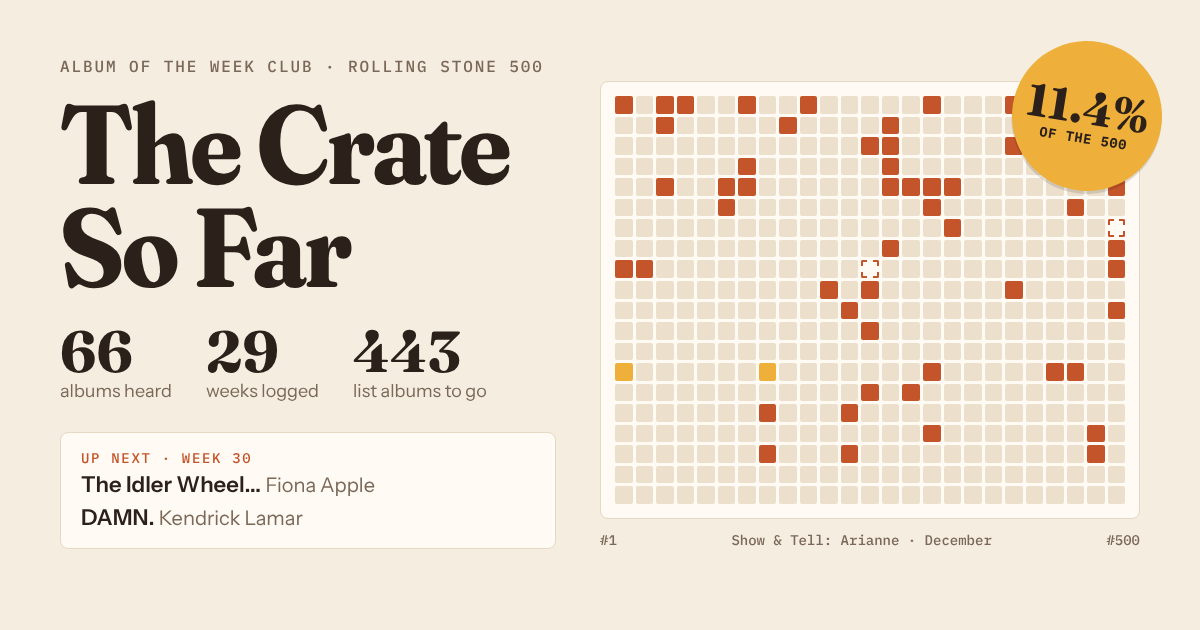
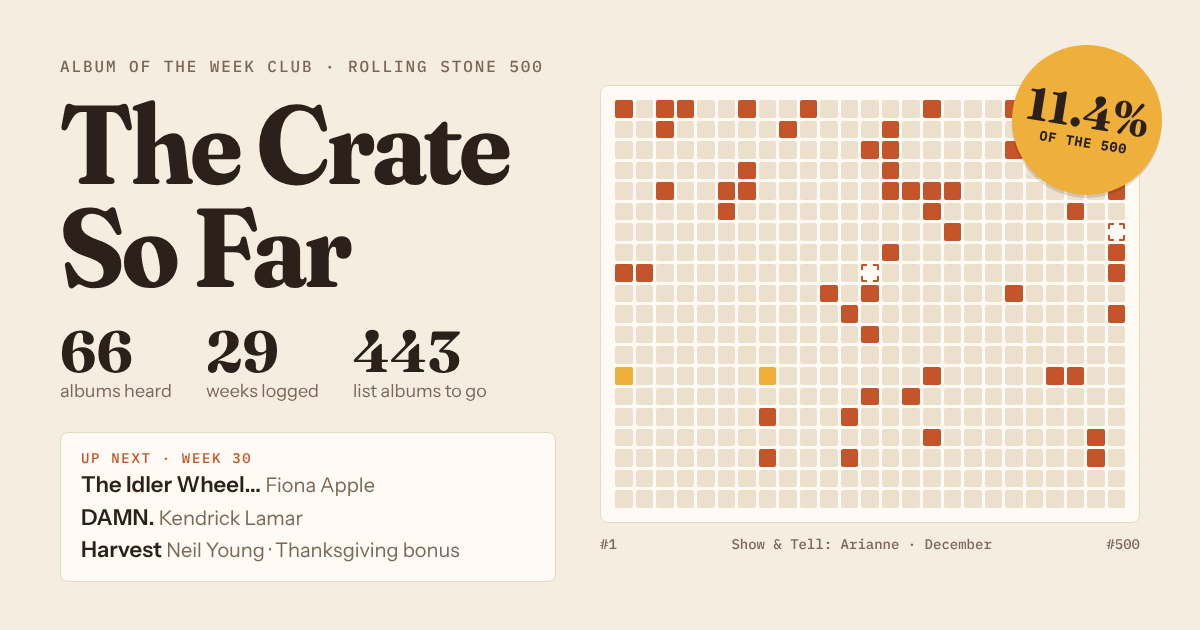
Thanksgiving bonus (Harvest) and organizer takes every January in the Show & Tell rotation
Claude-Session: https://claude.ai/code/session_017qSDTLtvHjN1ntxQNnDaXv

diff --git a/index.html b/index.html
@@ -4,11 +4,11 @@
 <meta charset="utf-8">
 <meta name="viewport" content="width=device-width,initial-scale=1,viewport-fit=cover">
 <title>Album Club Crate</title>
-<meta name="description" content="66 albums heard · 11.4% of the Rolling Stone 500 · Up next: The Idler Wheel... and DAMN.">
+<meta name="description" content="66 albums heard · 11.4% of the Rolling Stone 500 · Up next: The Idler Wheel... and DAMN., plus Harvest for Thanksgiving">
 <meta property="og:type" content="website">
 <meta property="og:site_name" content="Album Club Crate">
 <meta property="og:title" content="The Crate So Far · Album of the Week Club">
-<meta property="og:description" content="66 albums heard · 11.4% of the Rolling Stone 500 · Up next: The Idler Wheel... and DAMN.">
+<meta property="og:description" content="66 albums heard · 11.4% of the Rolling Stone 500 · Up next: The Idler Wheel... and DAMN., plus Harvest for Thanksgiving">
 <meta property="og:url" content="https://theburg51.github.io/album-club-crate/">
 <meta property="og:image" content="https://theburg51.github.io/album-club-crate/preview.png?v=30">
 <meta property="og:image:width" content="1200">
@@ -120,6 +120,10 @@ h1{line-height:.95}h2{line-height:1.05}.twc a.ttl{letter-spacing:-.01em;font-var
 .since{margin-top:14px}.since #sinceList{max-height:440px;overflow:auto;padding-right:4px}
 #sinceList input:checked~.ta{color:inherit;text-decoration:none}
 #sinceList input:not(:checked)~.ta{color:var(--mu)}
+
+.twb:empty{display:none}.twb{margin-top:16px}.twbh{margin:0 0 10px;font-size:14px;color:var(--mu);display:flex;flex-wrap:wrap;align-items:center;gap:6px 10px}.twbh b .st{font-size:13px;padding:3px 10px;margin:0}
+.st.hl{background:color-mix(in srgb,var(--co) 22%,var(--sh));color:var(--in)}
+.twc .st.hl{margin-left:8px}.la .st.hl{display:table;margin:4px 0 0}
 </style>
 </head>
 <body>
@@ -133,7 +137,7 @@ h1{line-height:.95}h2{line-height:1.05}.twc a.ttl{letter-spacing:-.01em;font-var
 <nav class="jump" id="jump" aria-label="Jump to"><a href="#s-week">This week</a><a href="#s-crate">My crate</a><a href="#s-stats">Stats</a><a href="#s-spin">Turntable</a><a href="#s-log">Log</a></nav>
 <div class="mscel" id="mscel" hidden></div>
 <section class="wrapd" id="wrapped" aria-labelledby="wrH" hidden></section>
-<section class="section" id="s-week" aria-labelledby="twH"><div class="head"><h2 id="twH">This week's albums</h2><span class="eyebrow" id="twWhen"></span></div><div class="tw" id="tw"></div></section>
+<section class="section" id="s-week" aria-labelledby="twH"><div class="head"><h2 id="twH">This week's albums</h2><span class="eyebrow" id="twWhen"></span></div><div class="tw" id="tw"></div><div class="twb" id="twb"></div></section>
 <section class="section" id="ahead" aria-labelledby="ahH" hidden>
 <div class="head"><h2 id="ahH">Coming up</h2><span class="eyebrow">Just for you · no spoilers</span></div>
 <form class="xrow" id="ahF"><input type="password" id="ahP" placeholder="Passphrase" aria-label="Passphrase" autocomplete="current-password"><button type="submit" class="xb">Unlock</button></form>
@@ -141,7 +145,7 @@ h1{line-height:.95}h2{line-height:1.05}.twc a.ttl{letter-spacing:-.01em;font-var
 <button type="button" class="xb" id="ahLock" hidden>Lock it on this device</button>
 </section>
 <section class="snt" aria-labelledby="sntH">
-<div class="sntTop"><div><div class="eyebrow" id="sntWhen"></div><h2 id="sntH"></h2></div><p>Show &amp; Tell: the first week of each month, one album that isn't on the list. Turns go by seniority.</p></div>
+<div class="sntTop"><div><div class="eyebrow" id="sntWhen"></div><h2 id="sntH"></h2></div><p>Show &amp; Tell: the first week of each month, one album that isn't on the list. Turns go by seniority, and Nathan, as organizer, takes every January.</p></div>
 <details><summary>See the full rotation</summary><ol class="rot" id="rot" aria-label="Show and Tell rotation"></ol></details>
 </section>
 <section class="panel mine" id="s-crate" aria-labelledby="mineH">
@@ -242,7 +246,7 @@ h1{line-height:.95}h2{line-height:1.05}.twc a.ttl{letter-spacing:-.01em;font-var
 <button type="button" class="rfb" id="rfb" aria-label="Refresh the page" hidden>↻</button>
 <div class="toast" id="toast" role="status" aria-live="polite"></div>
 <div class="a2b" id="a2b" role="region" aria-label="Add to home screen" hidden><img src="icons/icon-192.png?v=5" alt="" width="30" height="30"><button type="button" class="a2h" id="a2h" aria-expanded="false"><b>Add the Crate to your home screen</b><span>How</span></button><button type="button" class="a2i" id="a2i" hidden>Install</button><div class="a2x" id="a2t" hidden></div></div>
-<script type="application/json" id="rotData">{"rot":["Nathan","Devo","Neil","George Price","Bryan Bland","Jerry","Arianne","Noah","Murt","Peter","Eric Sanford","Curtis","Emmit","Genevieve","Cole","Maggie","Anissa"],"next":6,"nextMonth":"2026-12"}</script>
+<script type="application/json" id="rotData">{"rot":["Nathan","Devo","Neil","George Price","Bryan Bland","Jerry","Arianne","Noah","Murt","Peter","Eric Sanford","Curtis","Emmit","Genevieve","Cole","Maggie","Anissa"],"next":6,"nextMonth":"2026-12","jan":"Nathan"}</script>
 <script>
 // album rows: [week,title,artist,year,rank (0 = rank unknown, -1 = off the list),appleMusicId,showTellPicker]
 const R=[
@@ -313,22 +317,28 @@ const R=[
 [29,"Still Bill","Bill Withers",1972,333,"989376986"],
 [29,"Dirty Mind","Prince",1980,326,"1544296643"]
 ];
-const row=([w,t,a,y,r,am,st])=>({w,t,a,y,r:r>0?r:undefined,off:r<0,am,st}), A=R.map(row);
+const row=([w,t,a,y,r,am,st,hol])=>({w,t,a,y,r:r>0?r:undefined,off:r<0,am,st:st||undefined,hol}), A=R.map(row);
 const NEXT=[[30,"The Idler Wheel...","Fiona Apple",2012,213,"1462213924"],[30,"DAMN.","Kendrick Lamar",2017,175,"1440881047"]].map(row);
+// holiday bonus albums for this week, on top of the regular two: same format as R plus the holiday as the 8th item
+const BONUS=[[30,"Harvest","Neil Young",1972,72,"1015739190","","Thanksgiving"]].map(row).filter(x=>x.w===NEXT[0].w);
 const $=id=>document.getElementById(id);
 const NOTES=[
-{v:"2.1",d:"Nov 26, 2026",items:["Here since day one but missed a few? Your crate has a new “Missed some since you joined?” list: untick any club album you haven’t heard and it moves to your catch-up list, the grid and your numbers. Crate links carry these over to your other devices too."]},
+{v:"2.1",d:"Nov 26, 2026",items:["Holiday bonus albums get their own spot under This week\u2019s albums, and a holiday tag in the log.","Here since day one but missed a few? Your crate has a new “Missed some since you joined?” list: untick any club album you haven’t heard and it moves to your catch-up list, the grid and your numbers. Crate links carry these over to your other devices too."]},
 {v:"2.0",d:"Nov 23, 2026",items:["The turntable has a walnut wood finish, and its Album Club label now stars Rocco.","Rocco pops up to cheer you on when you tick off catch-up albums, and puts on a party hat for the big moments and club milestones.","A secret on the turntable: give the record a good spin before you drop the needle and see what happens.","A warmer look: cream paper, a soft serif for headings, and burnt orange and mustard instead of the old blue. Dark mode turns warm espresso.","Drop the needle and the record turns into colored vinyl that matches the album cover: splatter, swirl or a two-tone blend.","Roomier on phones: album titles get more space on This week\u2019s cards and in the log, long catch-up lists show 8 at a time, and swipe rows fade at the edge so you know there\u2019s more.","The home-screen icon, the turntable and the link preview card got the same warm makeover. To get the new icon, remove the Crate from your home screen and add it again."]},
 ];
 const picks={Nathan:"Yumeno Garden",Devo:"Coming Home",Neil:"Petals for Armor","George Price":"E. 1999 Eternal","Bryan Bland":"Peripheral Vision",Jerry:"Abandoned Luncheonette"};
 const esc=s=>s.replace(/&/g,"&amp;").replace(/</g,"&lt;"),Q=s=>document.querySelectorAll(s),H=(i,h)=>$(i).innerHTML=h,LF=a=>new Intl.ListFormat("en").format(a),MY={month:"long",year:"numeric"},N=A.length;
 const lastWeek=Math.max(...A.map(x=>x.w)),L=A.filter(x=>!x.off),snt=A.filter(x=>x.st),weeks=new Set(A.filter(x=>x.w).map(x=>x.w)).size;
-const RD=JSON.parse($("rotData").textContent),ROT=RD.rot,NI=RD.next,[nY,nM]=RD.nextMonth.split("-").map(Number),mon=i=>new Date(nY,nM-1+i,1).toLocaleDateString("en-US",MY);
+const RD=JSON.parse($("rotData").textContent),ROT=RD.rot,NI=RD.next,[nY,nM]=RD.nextMonth.split("-").map(Number),mon=i=>new Date(nY,nM-1+i,1).toLocaleDateString("en-US",MY),ORG=RD.jan||null,
+// Show & Tell schedule: walk month by month from nextMonth. January always goes to the organizer (jan);
+// every other month goes to the next person in the rotation, skipping the organizer.
+SCH=(()=>{const o=[];let k=NI,i=0;while(k<ROT.length&&i<120){if(ORG&&new Date(nY,nM-1+i,1).getMonth()===0)o.push({p:ORG,i});else{if(ROT[k]===ORG){k++;continue}o.push({p:ROT[k],i});k++}i++}return o})(),
+when=p=>SCH.find(x=>x.p===p),NOWP=SCH.length?SCH[0].p:ROT[NI];
 $("sntWhen").textContent="Show & Tell · up next · "+mon(0);
-$("sntH").textContent=ROT[NI]+"'s pick";
-H("rot",ROT.map((p,i)=>{const o=i-NI,w=o<0?(picks[p]?"Picked "+picks[p]:"Done"):o?mon(o):"Up next · "+mon(0).split(" ")[0];return`<li class="${o<0?"done":o?"":"now"}"><span class="who">${i+1}. ${p}</span><span class="when" title="${w}">${w}</span></li>`}).join(""));
+$("sntH").textContent=NOWP+"'s pick";
+H("rot",ROT.map((p,i)=>{const s=when(p),now=s&&s.i===0,w=p===ORG&&s?(now?"Up next · "+mon(s.i):"Every January · next "+new Date(nY,nM-1+s.i,1).toLocaleDateString("en-US",{month:"short",year:"numeric"})):i<NI||!s?(picks[p]?"Picked "+picks[p]:"Done"):now?"Up next · "+mon(0).split(" ")[0]:mon(s.i);return`<li class="${now?"now":i<NI&&p!==ORG?"done":""}"><span class="who">${i+1}. ${p}</span><span class="when" title="${w}">${w}</span></li>`}).join(""));
 const ranked=L.filter(x=>x.r),wkStart=w=>new Date(2026,4,7*w-3),FIN=(()=>{let left=500-L.length,w=NEXT[0].w;left-=NEXT.filter(x=>!x.off).length;while(left>0){w++;left-=wkStart(w).getDate()<=7?1:2}return w})(),fD=wkStart(FIN);
-const byR=new Map(ranked.map(x=>[x.r,x])),nR=new Map(NEXT.map(x=>[x.r,x])),cellOf=new Map(),el=t=>document.createElement(t);
+const byR=new Map(ranked.map(x=>[x.r,x])),nR=new Map([...NEXT,...BONUS].map(x=>[x.r,x])),cellOf=new Map(),el=t=>document.createElement(t);
 let ART={},SRC={},REL={};try{ART=JSON.parse(localStorage.getItem("ac.art2"))||{};SRC=JSON.parse(localStorage.getItem("ac.src"))||{};REL=JSON.parse(localStorage.getItem("ac.rel"))||{}}catch(e){}
 const key=x=>x.t+"|"+x.a+"|"+(x.am||""),btn=(c,s,o,k)=>{const b=el("button");b.type="button";b.className=c;if(k)b.dataset.k=k;s?(b.setAttribute("aria-label",s),b.onclick=b.onmouseenter=b.onfocus=()=>{o.textContent=s;const u=k&&ART[k];u&&o.insertAdjacentHTML("afterbegin",`<img src="${u}" alt="">`)}):(b.tabIndex=-1,b.setAttribute("aria-hidden","true"));return b};
 for(let i=1;i<=500;i++){const x=byR.get(i),n=nR.get(i),b=btn("cell"+(x?" on"+(x.w==lastWeek?" recent":""):n?" next":""),x?`#${i} · ${x.t} — ${x.a} (${x.y}) · ${x.w?"week "+x.w:"warm-up"}`:n&&`#${i} · ${n.t} — ${n.a} (${n.y}) · up next`,$("readout"),x?key(x):n&&key(n));x&&cellOf.set(x.t,b);$("crate").append(b)}
@@ -338,10 +348,10 @@ for(let dc=1960;dc<2030;dc+=10){const c=el("div");c.className="dcol";c.innerHTML
 for(let y=1960;y<2030;y++){const c=el("div");c.className="yc";A.filter(x=>x.y==y).forEach(x=>{const s=`${x.y} · ${x.t} — ${x.a}`,d=btn("d"+(x.off?" off":""),s,$("tlRead"));d.title=s;d.dataset.i=A.indexOf(x);c.append(d)});$("tl").append(c)}
 const deep=ranked.reduce((m,x)=>x.r>m.r?x:m),nw=A.reduce((m,x)=>x.y>m.y?x:m),tY=Object.keys(yc).reduce((m,y)=>yc[y]>yc[m]?y:m),yA=A.filter(x=>x.y==tY);
 H("supers",[["Deepest cut",deep.t,`#${deep.r} is the furthest down the list we've gone.`],["Top-10 tally",top10+" of 10","What's Going On, Blue, Songs in the Key of Life, Rumours and Miseducation."],["Repeat artists",LF(Object.keys(cnt).filter(a=>cnt[a]>1)),"Artists we've heard more than one album from."],["Most common year",tY,`${yA.length} albums: ${yA.map(x=>x.a).join(", ")}.`],["Newest album",`${nw.t} (${nw.y})`,nw.off?"Not on the list. The newest list albums are from 2012.":"Straight off the list."],["Show & Tell picks",snt.length+" so far","Picked by "+LF(snt.map(x=>x.st))+"."]].map(([k,t,d])=>`<div class="sup"><span class="k">${k}</span><span class="t">${esc(t)}</span><span class="d">${esc(d)}</span></div>`).join(""));
-const tag=x=>x.st?`<span class="st">Show &amp; Tell · ${x.st}</span>`:"",
-alb=x=>`<div class="alb"><i class="cv" data-k="${esc(key(x))}"></i><div class="ta"><a class="tt" data-q="${esc(x.t+" "+x.a)}" data-am="${x.am||""}" target="_blank" rel="noopener">${esc(x.t)}</a><span class="ar">${esc(x.a)}${x.st?tag(x):x.off?'<span class="ol">Off-list</span>':""}</span></div><span class="yr">${x.y}</span><span class="rk${x.r?"":" dim"}">${x.r?"#"+x.r:"—"}</span></div>`,
+const tag=x=>x.st?`<span class="st">Show &amp; Tell · ${x.st}</span>`:x.hol?`<span class="st hl">${({Thanksgiving:"\u{1F983}",Christmas:"\u{1F384}"})[x.hol]||"\u{1F381}"} ${esc(x.hol)} bonus</span>`:"",
+alb=x=>`<div class="alb"><i class="cv" data-k="${esc(key(x))}"></i><div class="ta"><a class="tt" data-q="${esc(x.t+" "+x.a)}" data-am="${x.am||""}" target="_blank" rel="noopener">${esc(x.t)}</a><span class="ar">${esc(x.a)}${x.st||x.hol?tag(x):x.off?'<span class="ol">Off-list</span>':""}</span></div><span class="yr">${x.y}</span><span class="rk${x.r?"":" dim"}">${x.r?"#"+x.r:"—"}</span></div>`,
 wk=(c,n,s,a)=>`<div class="wk${c}"><div class="n">${n}<small>${s}</small></div><div class="albums">${a.map(alb).join("")}</div></div>`;
-{const la=x=>{const q=`data-q="${esc(x.t+" "+x.a)}" data-am="${x.am||""}" target="_blank" rel="noopener"`;return`<div class="la"><a class="tt lac" ${q} tabindex="-1" aria-hidden="true"><i class="cv" data-k="${esc(key(x))}"></i></a><div class="lat"><a class="tt ttl" ${q}>${esc(x.t)}</a><span class="ar">${esc(x.a)}</span><span class="lmt">${x.y}${x.r?` · <b>#${x.r}</b> on the list`:x.st?` · <b>${esc(x.st)}’s pick</b>`:" · off the list"}</span></div></div>`},
+{const la=x=>{const q=`data-q="${esc(x.t+" "+x.a)}" data-am="${x.am||""}" target="_blank" rel="noopener"`;return`<div class="la"><a class="tt lac" ${q} tabindex="-1" aria-hidden="true"><i class="cv" data-k="${esc(key(x))}"></i></a><div class="lat"><a class="tt ttl" ${q}>${esc(x.t)}</a><span class="ar">${esc(x.a)}</span><span class="lmt">${x.y}${x.r?` · <b>#${x.r}</b> on the list`:x.st?` · <b>${esc(x.st)}’s pick</b>`:" · off the list"}</span>${x.hol?tag(x):""}</div></div>`},
 fmt=d=>d.toLocaleDateString("en-US",{month:"short",day:"numeric"});let lastM="",h="";
 Object.keys(groups).sort((a,b)=>b-a).forEach((w,i)=>{w=+w;const st=wkStart(w),m=w?st.toLocaleDateString("en-US",{month:"long",year:"numeric"}):"April 2026",old=i>3?" old":"",sw=groups[w].some(x=>x.st);
 if(m!==lastM){h+=`<div class="lm${old}"><span>${m}</span></div>`;lastM=m}
@@ -351,6 +361,7 @@ H("log",h)}{const n=Object.keys(groups).length,lb=$("logMore");lb.hidden=n<=4;lb
 $("twWhen").textContent=`Week ${NEXT[0].w} · from ${new Date(2026,4,7*NEXT[0].w-3).toLocaleDateString("en-US",{month:"short",day:"numeric"})}`;
 const twCard=x=>{const q=`data-q="${esc(x.t+" "+x.a)}" data-am="${x.am||""}" target="_blank" rel="noopener"`;return`<div class="twc"><a class="tt cvl" ${q} aria-hidden="true" tabindex="-1"><i class="cv" data-k="${esc(key(x))}"></i></a><div class="tx"><a class="tt ttl" ${q}>${esc(x.t)}</a><span class="ar">${esc(x.a)}</span><span class="mt"><span>${x.y}</span>${x.r?`<b>#${x.r} on the list</b>`:x.off?(x.st?tag(x):"<span>Off the list</span>"):""}</span><a class="tt go" ${q}>Listen \u2197</a></div></div>`};
 H("tw",NEXT.map(twCard).join(""));
+H("twb",BONUS.length?`<p class="twbh"><b>${tag(BONUS[0])}</b> One extra for the holiday, on top of this week's two.</p><div class="tw">${BONUS.map(twCard).join("")}</div>`:"");
 H("notes",NOTES.map((n,i)=>{const r=`<div class="rel"><div class="v"><b>v${n.v}</b>${n.d}</div><ul>${n.items.map(i=>`<li>${esc(i)}</li>`).join("")}</ul></div>`;return i?`<details class="relx"><summary>Earlier: v${n.v} \u00b7 ${n.d}</summary>${r}</details>`:r}).join(""));
 const store={get(k,d){try{const v=localStorage.getItem(k);return v===null?d:JSON.parse(v)}catch(e){return d}},set(k,v){try{localStorage.setItem(k,JSON.stringify(v))}catch(e){}}};
 const SVC={spotify:"Spotify",apple:"Apple Music"},sb=Q(".svc button");
@@ -377,11 +388,11 @@ function paint(){const m=missedAll(),left=m.filter(x=>!caught.has(x.t)),done=m.l
 cellOf.forEach(b=>b.classList.remove("missed"));left.forEach(x=>cellOf.get(x.t)?.classList.add("missed"));
 $("lgMissed").hidden=!left.length;$("spin").hidden=!left.length;$("catchBar").style.width=m.length?done/m.length*100+"%":"0";$("catchWrap").hidden=!m.length;
 $("mineSum").innerHTML=join===null?"New to the club, or catching up? Pick the week you joined and this section turns into your own catch-up list.":m.length?`${(()=>{const b=A.filter(x=>x.w<join).length,k=m.length-b;return b&&k?`Your catch-up list has <b>${m.length}</b> albums: ${b} from before you joined and ${k} you missed since.`:b?`The club heard <b>${b}</b> albums before you joined.`:`You've been here since ${join?"week "+join:"day one"}, with <b>${k}</b> album${k===1?"":"s"} to catch up on.`})()} You've caught up on <b>${done}</b> of them. That puts you at <b>${N-left.length}</b> of the club's ${N}.`+(left.length?" Hollow squares on the grid are the list albums you still have to hear.":" You're fully caught up."):`You've been here for all <b>${N}</b> albums. Missed a few? Open <b>Missed some since you joined?</b> below and untick them.`;renderStats()}
-function buildSince(){const sn=$("since"),on=join!==null;sn.hidden=!on;if(!on)return H("sinceList","");H("sinceList",A.filter(x=>x.w>=join).reverse().map((x,i)=>`<label for="sj${i}"><input type="checkbox" id="sj${i}" data-t="${esc(x.t)}"${!skip.has(x.t)||caught.has(x.t)?" checked":""}><i class="cv sm" data-k="${esc(key(x))}"></i><span class="ta"><span class="tt">${esc(x.t)}</span><span class="ar">${esc(x.a)}${x.st?tag(x):x.off?'<span class="ol">Off-list</span>':""}</span></span><span class="rk">${x.w?"wk "+x.w:"April"}</span></label>`).join(""));setTimeout(paintArt)}
-function buildList(){buildSince();setTimeout(()=>{const n=$("catch").children.length,b=$("catchMore"),c=$("catch");c.classList.toggle("short",n>8&&!c.dataset.all);b.hidden=n<=8;b.textContent=c.dataset.all?"Show fewer":`Show all ${n} albums`;b.onclick=()=>{c.dataset.all=c.dataset.all?"":"1";c.classList.toggle("short",!c.dataset.all);b.textContent=c.dataset.all?"Show fewer":`Show all ${n} albums`;b.setAttribute("aria-expanded",!!c.dataset.all)}});setTimeout(paintArt);H("catch",missedAll().map((x,i)=>`<label for="cu${i}"><input type="checkbox" id="cu${i}" data-t="${esc(x.t)}"${caught.has(x.t)?" checked":""}><i class="cv sm" data-k="${esc(key(x))}"></i><span class="ta"><span class="tt">${esc(x.t)}</span><span class="ar">${esc(x.a)}${x.st?tag(x):x.off?'<span class="ol">Off-list</span>':""}</span></span><span class="rk">${x.w?"wk "+x.w:"April"}</span></label>`).join(""))}
+function buildSince(){const sn=$("since"),on=join!==null;sn.hidden=!on;if(!on)return H("sinceList","");H("sinceList",A.filter(x=>x.w>=join).reverse().map((x,i)=>`<label for="sj${i}"><input type="checkbox" id="sj${i}" data-t="${esc(x.t)}"${!skip.has(x.t)||caught.has(x.t)?" checked":""}><i class="cv sm" data-k="${esc(key(x))}"></i><span class="ta"><span class="tt">${esc(x.t)}</span><span class="ar">${esc(x.a)}${x.st||x.hol?tag(x):x.off?'<span class="ol">Off-list</span>':""}</span></span><span class="rk">${x.w?"wk "+x.w:"April"}</span></label>`).join(""));setTimeout(paintArt)}
+function buildList(){buildSince();setTimeout(()=>{const n=$("catch").children.length,b=$("catchMore"),c=$("catch");c.classList.toggle("short",n>8&&!c.dataset.all);b.hidden=n<=8;b.textContent=c.dataset.all?"Show fewer":`Show all ${n} albums`;b.onclick=()=>{c.dataset.all=c.dataset.all?"":"1";c.classList.toggle("short",!c.dataset.all);b.textContent=c.dataset.all?"Show fewer":`Show all ${n} albums`;b.setAttribute("aria-expanded",!!c.dataset.all)}});setTimeout(paintArt);H("catch",missedAll().map((x,i)=>`<label for="cu${i}"><input type="checkbox" id="cu${i}" data-t="${esc(x.t)}"${caught.has(x.t)?" checked":""}><i class="cv sm" data-k="${esc(key(x))}"></i><span class="ta"><span class="tt">${esc(x.t)}</span><span class="ar">${esc(x.a)}${x.st||x.hol?tag(x):x.off?'<span class="ol">Off-list</span>':""}</span></span><span class="rk">${x.w?"wk "+x.w:"April"}</span></label>`).join(""))}
 let lastPick=null;
 $("spin").onclick=()=>{const left=missedAll().filter(x=>!caught.has(x.t)),pool=left.length>1?left.filter(x=>x!==lastPick):left;if(!pool.length)return;const x=lastPick=pool[Math.random()*pool.length|0];
-H("spOut",`<div class="spc"><i class="cv" data-k="${esc(key(x))}"></i><div class="ta"><span class="eyebrow">Your pick · ${x.w?"week "+x.w:"April warm-up"}</span><a class="tt" data-q="${esc(x.t+" "+x.a)}" data-am="${x.am||""}" target="_blank" rel="noopener">${esc(x.t)}</a><span class="ar">${esc(x.a)}${x.st?tag(x):x.off?'<span class="ol">Off-list</span>':""}</span></div><button type="button" class="xb" id="spDone">Mark as heard</button></div>`);
+H("spOut",`<div class="spc"><i class="cv" data-k="${esc(key(x))}"></i><div class="ta"><span class="eyebrow">Your pick · ${x.w?"week "+x.w:"April warm-up"}</span><a class="tt" data-q="${esc(x.t+" "+x.a)}" data-am="${x.am||""}" target="_blank" rel="noopener">${esc(x.t)}</a><span class="ar">${esc(x.a)}${x.st||x.hol?tag(x):x.off?'<span class="ol">Off-list</span>':""}</span></div><button type="button" class="xb" id="spDone">Mark as heard</button></div>`);
 $("spin").textContent="🎲 Pick another";setSvc(store.get("ac.svc","spotify"));paintArt();
 $("spDone").onclick=()=>{caught.add(x.t);save();redo();cheer(x.t);lastPick=null;$("spin").textContent="🎲 Pick one for me";H("spOut",`<p class="sub">Nice, <b>${esc(x.t)}</b> is checked off.</p>`)}};
 $("catch").onchange=e=>{const t=e.target.dataset.t;if(t){e.target.checked?caught.add(t):caught.delete(t);save();paint();buildSince();e.target.checked&&cheer(t)}};

diff --git a/CHANGELOG.md b/CHANGELOG.md
@@ -6,6 +6,8 @@ The site's own Release notes section shows only the two most recent versions. Th
 
 ## v2.1 · Nov 26, 2026
 
+- **Holiday bonus albums:** a `BONUS` list in the page data holds extra holiday picks for the current week. They show under This week's albums with a holiday tag (🦃 Thanksgiving, 🎄 Christmas, 🎁 otherwise), count as this week's squares on the grid and in the link preview, and keep the tag in the log once they move there (holiday as the 8th item of an `R` row).
+- **Show & Tell rotation:** the rotation data can name an organizer (`jan`) who takes every January. The banner and rotation list work out each month from there, skipping the organizer in the regular order.
 - **Missed some since you joined?** A fold under the catch-up list shows every club album from your join week on, ticked. Untick one you haven't heard and it joins your catch-up list, shows as a hollow square on the grid, counts against Your numbers and can come up in Pick one for me. Ticking it later counts as catching up. This works for day-one members too, who used to have nothing to tick. Crate links and codes carry the unticked albums between devices.
 
 ## v2.0 · Nov 23, 2026

diff --git a/README.md b/README.md
@@ -27,11 +27,12 @@ The Album of the Week Club's progress through Rolling Stone's 500 Greatest Album
 
 Everything is near the bottom of `index.html`:
 
-- `rotData`: the Show & Tell rotation, who's up next and their month.
+- `rotData`: the Show & Tell rotation, who's up next and their month. `jan` names the organizer, who takes every January; the rest of the rotation skips them.
 - `R`: every album heard, one per line: `[week, "title", "artist", year, rank, "appleMusicId", "showTellPicker"]`.
   - `rank` is the 2023 list rank, or `-1` for an album that's not on the list.
   - `appleMusicId` must be a **US store** ID. It drives the cover, the Apple Music link and the turntable preview.
 - `NEXT`: this week's albums, shown big at the top of the page.
+- `BONUS`: holiday bonus albums for this week, same format as `R` plus the holiday as an 8th item (e.g. `"Thanksgiving"`). When the week ends they move into `R` with the holiday kept.
 - `picks`: each person's Show & Tell album.
 - `NOTES`: the release notes shown on the page, the two most recent versions only.
 
